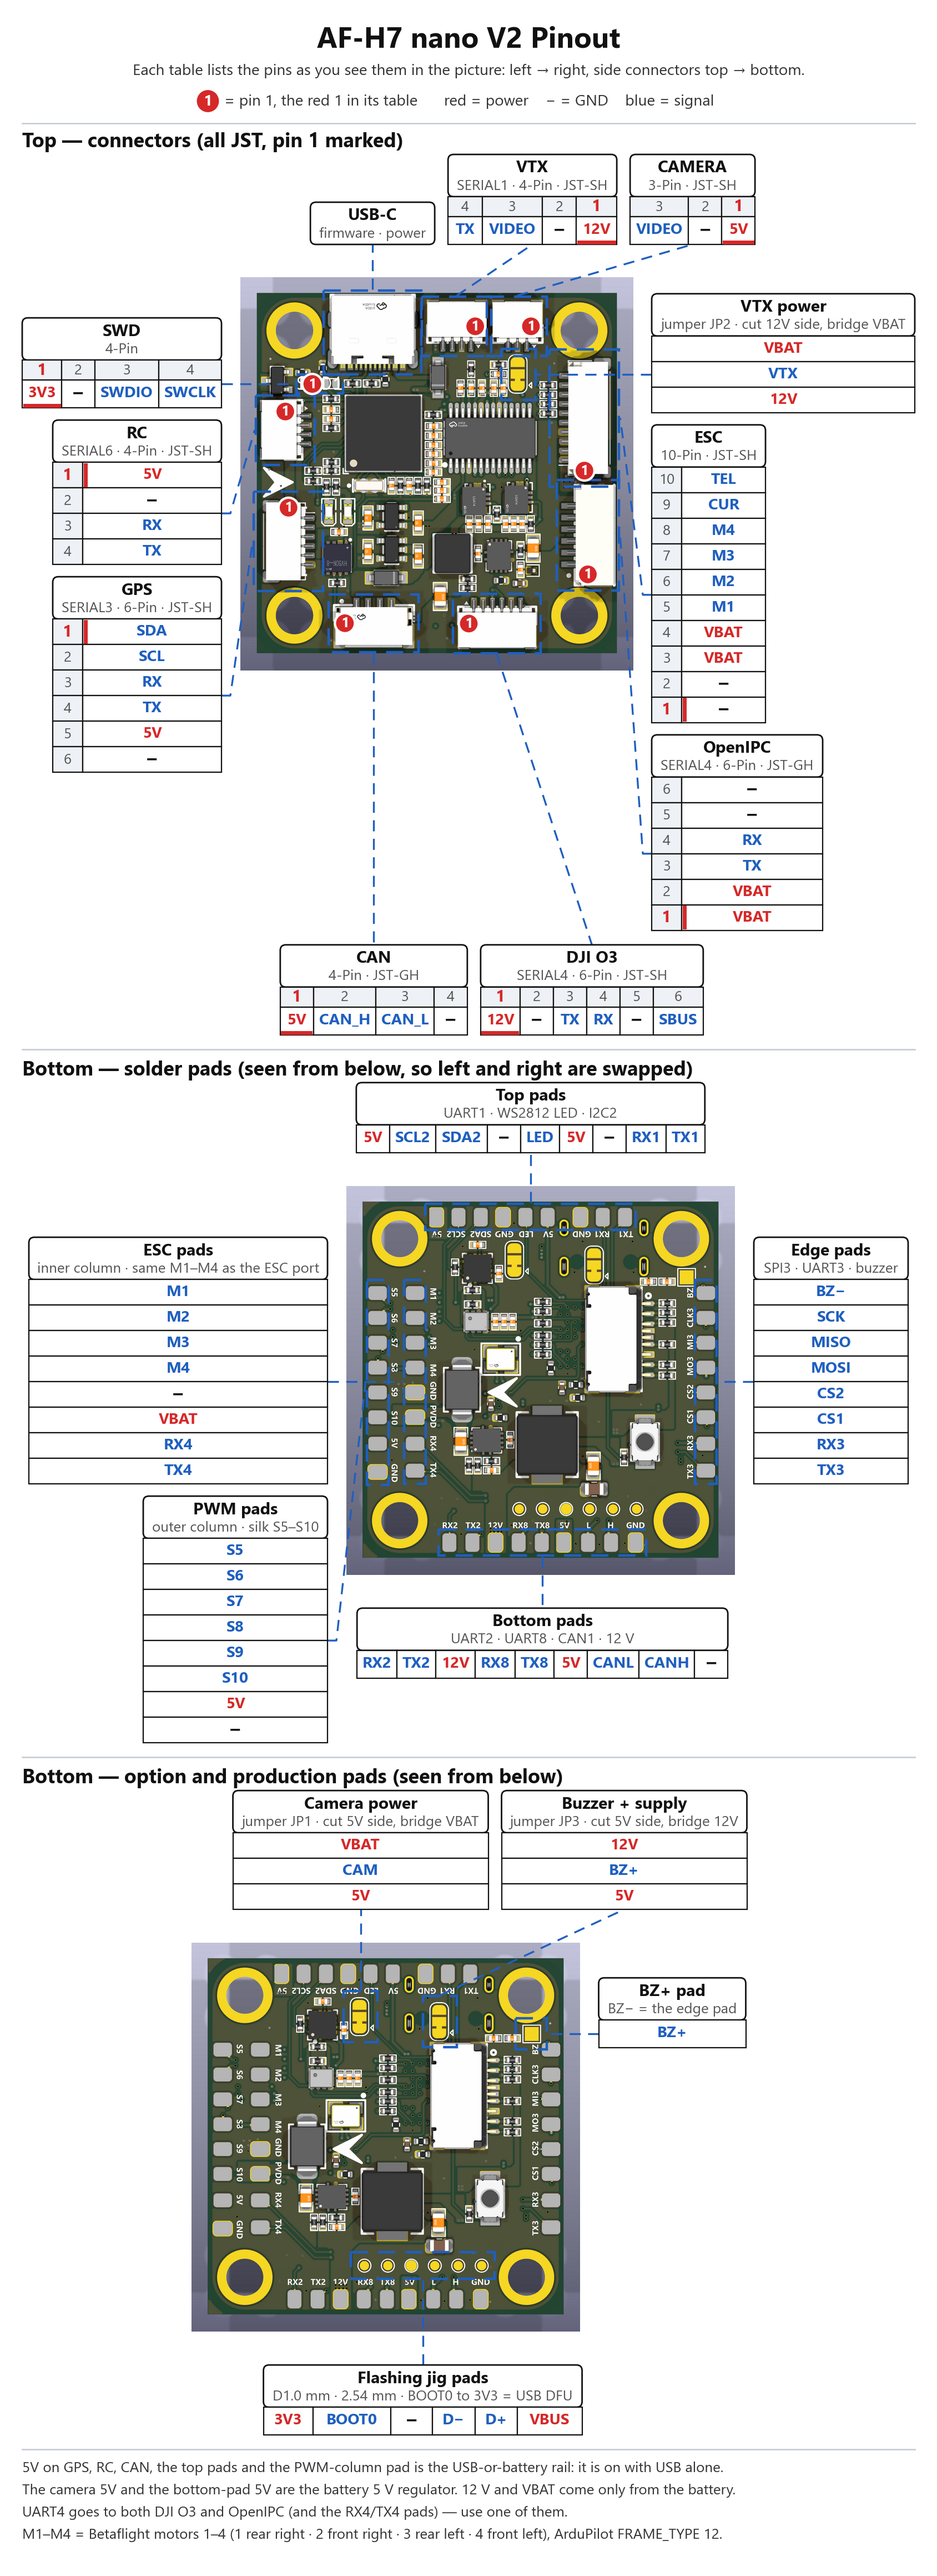
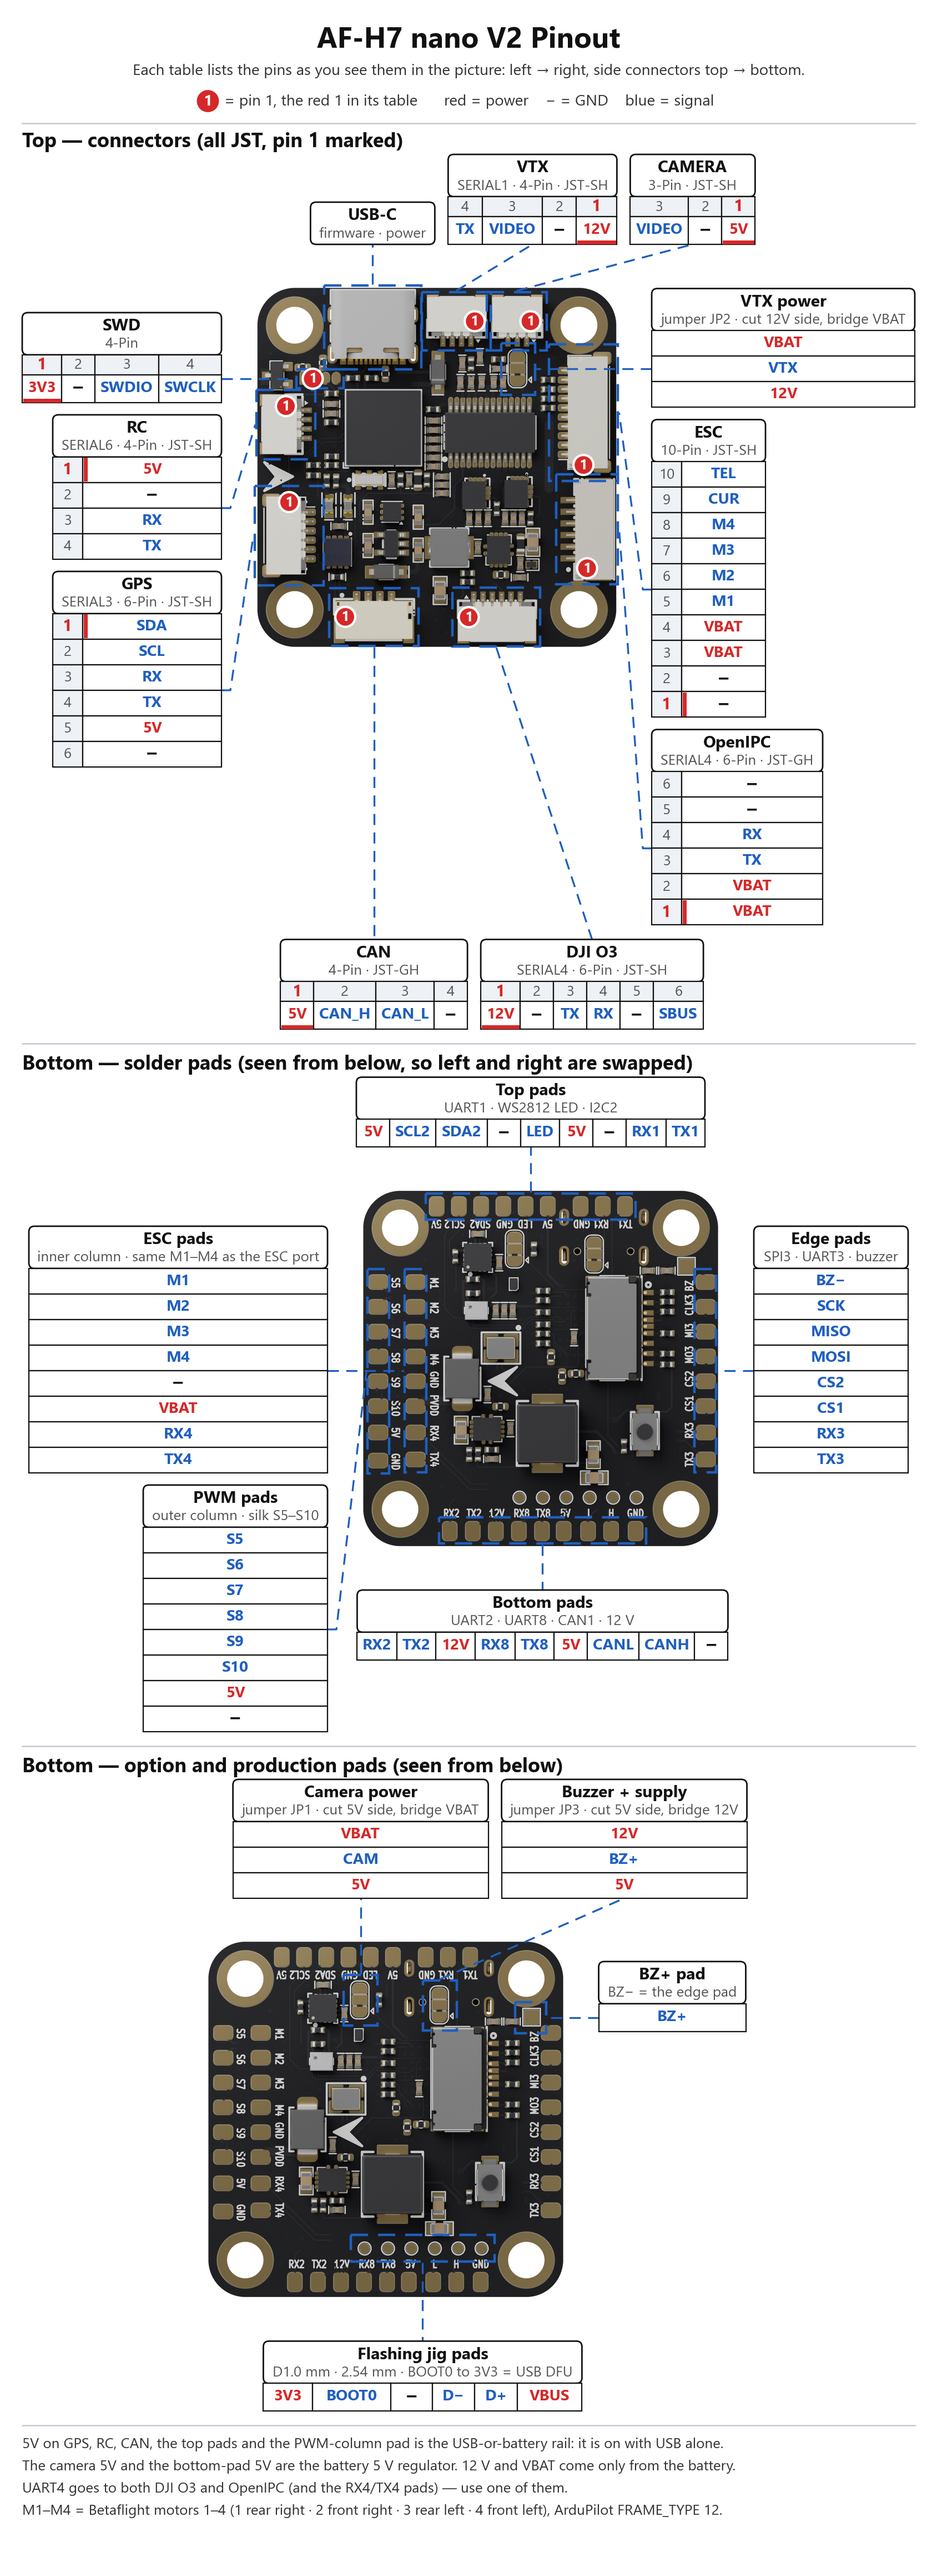
Pinouts: AF-F4 nano, AF-F4 nano v2 and AF-H7 nano V2 drawn on the new catalog renders
Problem: the pinout pictures still used the vendor photos (AF-F4 nano, AF-F4 nano v2 FC board) and the earlier
green KiCad render (AF-H7 nano V2), so they no longer matched the product pictures published today.

Solution: the same tables and pin-1 marks on the new straight-on renders (fc_AF-F4-nano_top/_bottom,
fc_AF-F4-nano-v2_top, fc_AF-H7-nano-V2_top/_bottom).
- AF-F4 nano / v2: each hand-checked box moved from the old photo by the black board edges in both pictures
  (scale + offset); the AF-F4 nano bottom render is turned 180 degrees so it faces the way the old photo did and the
  "as you see them" order of every table stays the same (checked against the render's silk).
- AF-H7 nano V2: board mm -> px from the new render's board edges (234..1365 px = 38.55 mm), cropped to the board.
- Pin signals and order are unchanged (pinTable / script tables). The AF-F4 nano v2 BEC board keeps the maker's
  photo: there is no 3D of that board.

Checks: npm test 24/24, npm run build, npm run validate:remote (0 errors); every box and pin-1 mark checked on the image.

diff --git a/tools/pinout/f4_nano_pinout.py b/tools/pinout/f4_nano_pinout.py
@@ -9,9 +9,10 @@
     옛 그림은 SBUS 좌우 · VTX 위아래를 실크 글자 읽는 방향대로 적어 사진과 반대였다(2026-09-30 실크 대조, 반증 워커 합의).
   윗면 VTX · CAM · RC · BUZZER · GPS = 핀마다 실크가 없어 옛 핀아웃 그림의 순서 그대로(옛 그림 표와 칸마다 같음 — 워커 6 회차).
   1 번 핀 자료가 없어 번호 · ① 를 쓰지 않는다.
-바탕: 윗면 = 카탈로그 제품 사진 public/images/products/fc_F405_nano.png,
-      아랫면 = src/f4_nano_bottom_vendor.png(git 의 옛 fc_F405_nano_pinout.png 에서 아랫면 사진만 (905, 2618)~(2100, 3810) 잘라 둔 것 —
-      출력 파일을 다시 읽지 않는다). 옛 그림의 화살표 두 줄(TF 카드 · BEC)은 여기서 지운다.
+바탕(2026-10-27 이사님 #o2ac037c4 "이 사진들도 같이 렌더링해서 일관성 맞추라고"): 카탈로그 렌더
+      public/images/products/fc_AF-F4-nano_top.png · fc_AF-F4-nano_bottom.png(아랫면은 180° 돌림 — 옛 제조사 사진과 같은 방향이라야
+      표의 '보이는 순서'가 그대로 맞다). 상자 = 옛 사진(fc_F405_nano.png · src/f4_nano_bottom_vendor.png)의 검증된 상자를 검은 판
+      테두리 맞춤으로 옮긴 것(미리보기/catalog-render/pinout_rebase.py) — 렌더 실크(4 3 2 1 + + − − · G 5V TX RX · 패드 글자)와 대조함.
 사용자 2026-09-30 "제품으로 해서 한페이지로 하고 원래 레이아웃에 포트설명 글자만 키우면되지" → 한 장, 원래 배치.
 실행: python f4_nano_pinout.py [출력 폴더]   → fc_F405_nano_pinout.png
 """
@@ -33,13 +34,8 @@ LEGEND = ["red = power    black = GND    blue = signal    grey = not connected"]
 
 
 def bottom():
-    """아랫면 사진 — 옛 그림의 화살표(TF 카드 · BEC 설명선)를 주변 색으로 메운다. 좌표 = 이 그림 px."""
-    a = load_rgb(os.path.join(HERE, "src", "f4_nano_bottom_vendor.png"))
-    mask = np.zeros(a.shape[:2], np.uint8)
-    for p0, p1 in (((-60, 540), (253, 595)), ((-60, 1029), (787, 945))):     # (보드 밖 글자 쪽 → 화살촉)
-        cv2.line(mask, p0, p1, 255, 16)
-        cv2.circle(mask, p1, 24, 255, -1)
-    return cv2.inpaint(a[:, :, ::-1].copy(), mask, 6, cv2.INPAINT_TELEA)[:, :, ::-1]
+    """아랫면 렌더를 180° 돌린 것 — 옛 제조사 사진과 같은 방향(SBUS 왼쪽 위 · 모터 패드 아래)."""
+    return np.ascontiguousarray(np.rot90(load_rgb(os.path.join(IMG, "fc_AF-F4-nano_bottom.png")), 2))
 
 
 def rows(*lines):
@@ -54,32 +50,33 @@ def v(words):
     return ("v", word_cells(words.split()))
 
 
-TOP = [   # (이름, 상자 px (x0, x1, y0, y1), 부제, 표, 자리 T · B · L · R, 줄) — 윗면 사진 fc_F405_nano.png(1024 × 1024)
-    ("ESC", (405, 575, 220, 290), "8-Pin · silk 4 3 2 1 + + − − (+ = VBAT)", h("S4 S3 S2 S1 + + − −"), "T", 1),
-    ("ELRS", (590, 690, 218, 290), "4-Pin · UART4 · silk G 5V TX RX", h("GND 5V TX4 RX4"), "T", 1),
-    ("VTX", (740, 815, 315, 455), "6-Pin · UART3 TX" + MAKER, v("NC GND NC NC VTX TX3"), "R", 1),
-    ("CAM", (740, 810, 468, 548), "3-Pin · video in" + MAKER, v("5V GND CAM"), "R", 1),
-    ("RC", (340, 428, 735, 815), "3-Pin · PPM" + MAKER, h("GND 5V PPM"), "B", 1),
-    ("BUZZER", (440, 552, 735, 815), "4-Pin · UART3 RX" + MAKER, h("5V RX3 BUZZ GND"), "B", 2),
-    ("GPS", (570, 707, 735, 815), "6-Pin · UART1 + I2C1" + MAKER, h("SDA1 SCL1 RX1 TX1 5V GND"), "B", 1),
+REG = (180, 1420, 0, 1200)   # 렌더 1600 × 1200 — 판 235…1364 · 35…1165 px
+TOP = [   # (이름, 상자 px (x0, x1, y0, y1), 부제, 표, 자리 T · B · L · R, 줄) — 윗면 렌더 fc_AF-F4-nano_top.png
+    ("ESC", (591, 922, 29, 163), "8-Pin · silk 4 3 2 1 + + − − (+ = VBAT)", h("S4 S3 S2 S1 + + − −"), "T", 1),
+    ("ELRS", (951, 1146, 25, 163), "4-Pin · UART4 · silk G 5V TX RX", h("GND 5V TX4 RX4"), "T", 1),
+    ("VTX", (1243, 1389, 210, 477), "6-Pin · UART3 TX" + MAKER, v("NC GND NC NC VTX TX3"), "R", 1),
+    ("CAM", (1243, 1380, 502, 654), "3-Pin · video in" + MAKER, v("5V GND CAM"), "R", 1),
+    ("RC", (465, 636, 1011, 1163), "3-Pin · PPM" + MAKER, h("GND 5V PPM"), "B", 1),
+    ("BUZZER", (659, 877, 1011, 1163), "4-Pin · UART3 RX" + MAKER, h("5V RX3 BUZZ GND"), "B", 2),
+    ("GPS", (912, 1179, 1011, 1163), "6-Pin · UART1 + I2C1" + MAKER, h("SDA1 SCL1 RX1 TX1 5V GND"), "B", 1),
 ]
-BOTTOM = [  # 아랫면 사진 src/f4_nano_bottom_vendor.png(1195 × 1192)
-    ("SBUS pads", (200, 350, 10, 162), "UART2 RX · RC input", rows("GND 5V SBUS", "GND 3.3V RX2"), "T", 1),
-    ("RGB pads", (420, 565, 10, 162), "UART3 / UART5 · LED or serial", rows("RGB GND 5V", "RX3 TX5 RX5"), "T", 2),
-    ("I2C / UART pads", (695, 935, 18, 88), "I2C1 / UART1", h("5V SDA1 SCL1 RX1 TX1 GND"), "T", 1),
-    ("VTX pads", (1105, 1175, 767, 912), "UART3 TX · VTX control", v("TX3 VTX GND"), "R", 1),
-    ("MOTOR / POWER pads", (385, 830, 1100, 1180), "Motor signals S1–S8 + battery", h("BAT S4 S3 S2 S1 S5 S6 S7 S8 GND"), "B", 1),
+BOTTOM = [  # 아랫면 렌더 fc_AF-F4-nano_bottom.png 를 180° 돌린 것
+    ("SBUS pads", (419, 564, 42, 187), "UART2 RX · RC input", rows("GND 5V SBUS", "GND 3.3V RX2"), "T", 1),
+    ("RGB pads", (632, 773, 42, 187), "UART3 / UART5 · LED or serial", rows("RGB GND 5V", "RX3 TX5 RX5"), "T", 2),
+    ("I2C / UART pads", (899, 1131, 49, 116), "I2C1 / UART1", h("5V SDA1 SCL1 RX1 TX1 GND"), "T", 1),
+    ("VTX pads", (1296, 1364, 767, 906), "UART3 TX · VTX control", v("TX3 VTX GND"), "R", 1),
+    ("MOTOR / POWER pads", (598, 1030, 1086, 1163), "Motor signals S1–S8 + battery", h("BAT S4 S3 S2 S1 S5 S6 S7 S8 GND"), "B", 1),
 ]
 
 
 def main():
-    top, bot = load_rgb(os.path.join(IMG, "fc_F405_nano.png")), bottom()
+    top, bot = load_rgb(os.path.join(IMG, "fc_AF-F4-nano_top.png")), bottom()
     sh = Sheet()
     sh.header("AF-F4 nano Pinout", "Both sides seen straight on. Each table lists the pins left → right (side connectors: top → bottom) "
-              "as you see them in the photo. The board silk names the ESC, ELRS and every bottom pad; the other top connectors keep "
+              "as you see them in the picture. The board silk names the ESC, ELRS and every bottom pad; the other top connectors keep "
               "the maker's order. There are no pin numbers.", LEGEND)
-    for title, img, reg, conns, w in (("Top side", top, (190, 850, 190, 850), TOP, 820),
-                                      ("Bottom side (pads)", bot, (0, bot.shape[1], 0, bot.shape[0]), BOTTOM, 900)):
+    for title, img, reg, conns, w in (("Top side", top, REG, TOP, 820),
+                                      ("Bottom side (pads)", bot, REG, BOTTOM, 900)):
         sh.caption(title)
         sh.board(region(img, *reg), [{"box": (b[0] - reg[0], b[1] - reg[0], b[2] - reg[2], b[3] - reg[2]), "name": nm, "sub": sub,
                                       "table": tb, "p1": None, "side": sd, "row": rw} for nm, b, sub, tb, sd, rw in conns], img_w=w)

diff --git a/tools/pinout/f4_nano_v2_pinout.py b/tools/pinout/f4_nano_v2_pinout.py
@@ -8,7 +8,9 @@
     ESC 9핀(P11) 왼→오 = 9…1 번(CUR · S4 · S3 · S2 · S1 · + · + · − · −, 보드 실크 "C 4 3 2 1 + + − −" 와 같음) ·
     GPS 6핀(P3) 위→아래 = 6…1 번(− · + · TX · RX · SCL · SDA) · BEC 8핀(J1) 위→아래 = 8…1 번(− · SCL · SDA · LED · TX · RX · TX · RX)
   BEC 보드 = PCB 가 저장소에 없다 → 제조사 그림 표 그대로(번호 · ① 없음).
-바탕: FC = 카탈로그 제품 사진 public/images/products/fc_F4_nano_v2.png · BEC 보드 = src/f4_nano_v2_bec_vendor.png
+바탕: FC = 카탈로그 윗면 렌더 public/images/products/fc_AF-F4-nano-v2_top.png(2026-10-27 이사님 #o2ac037c4 "이 사진들도 같이 렌더링해서
+      일관성 맞추라고" — 제품 사진과 같은 렌더. 상자 = 옛 사진 fc_F4_nano_v2.png 의 검증된 상자를 검은 판 테두리 맞춤으로 옮긴 것,
+      방향 같음 · 미리보기/catalog-render/pinout_rebase.py) · BEC 보드 = src/f4_nano_v2_bec_vendor.png(3D 없음 — 제조사 사진 그대로)
       (git 의 옛 fc_F4_nano_v2_pinout_bottom.png 에서 보드 사진만 잘라 둔 것 — 제조사 파란 점선은 여기서 지운다. 출력 파일을 다시 읽지 않는다).
 실행: python f4_nano_v2_pinout.py [출력 폴더]   → fc_F4_nano_v2_pinout.png
 """
@@ -44,10 +46,11 @@ def v(words, pins=None):
     return ("v", word_cells(words.split(), pins))
 
 
-FC = [   # (이름, 상자 px (x0, x1, y0, y1) — fc_F4_nano_v2.png 1024 × 974, 부제, 표, 1 번 끝, 자리)
-    ("ESC Interface", (281, 556, 37, 156), "9-Pin · JST-SH · to the 4-in-1 ESC", h("CUR S4 S3 S2 S1 + + − −", list(range(9, 0, -1))), "R", "T"),
-    ("GPS", (860, 975, 220, 425), "6-Pin · JST-SH · USART1 + I2C1", v("− + TX RX SCL SDA", list(range(6, 0, -1))), "B", "R"),
-    ("BEC", (860, 978, 445, 700), "8-Pin · JST-SH · to the BEC board", v("− SCL SDA LED TX RX TX RX", list(range(8, 0, -1))), "B", "R"),
+FC_REG = (180, 1420, 0, 1200)   # fc_AF-F4-nano-v2_top.png 1600 × 1200 — 판 235…1364 · 35…1164 px
+FC = [   # (이름, 상자 px (x0, x1, y0, y1) — fc_AF-F4-nano-v2_top.png, 부제, 표, 1 번 끝, 자리)
+    ("ESC Interface", (489, 836, 16, 168), "9-Pin · JST-SH · to the 4-in-1 ESC", h("CUR S4 S3 S2 S1 + + − −", list(range(9, 0, -1))), "R", "T"),
+    ("GPS", (1220, 1365, 250, 512), "6-Pin · JST-SH · USART1 + I2C1", v("− + TX RX SCL SDA", list(range(6, 0, -1))), "B", "R"),
+    ("BEC", (1220, 1369, 537, 864), "8-Pin · JST-SH · to the BEC board", v("− SCL SDA LED TX RX TX RX", list(range(8, 0, -1))), "B", "R"),
 ]
 # BEC 보드: src 그림 좌표 = 옛 그림(1250 × 1217) 좌표 − 잘라 낸 원점(190, 215)
 OX, OY = 190, 215
@@ -64,15 +67,17 @@ BEC = [
 
 
 def main():
-    fc = load_rgb(os.path.join(IMG, "fc_F4_nano_v2.png"))
+    fc = load_rgb(os.path.join(IMG, "fc_AF-F4-nano-v2_top.png"))
     bec = bec_board()
     sh = Sheet()
     sh.header("AF-F4 nano v2 Pinout",
-              "Each table lists the pins left → right (side connectors: top → bottom) as you see them in the photo.",
+              "Each table lists the pins left → right (side connectors: top → bottom) as you see them in the picture.",
               [("1", RED), "= pin 1, the red 1 in its table (FC board)", "+ = power    − = GND    blue = signal"])
     sh.caption("FC board — top")
-    sh.board(region(fc, 0, fc.shape[1], 0, fc.shape[0]),
-             [{"box": b, "name": n, "sub": s, "table": t, "p1": p1, "side": sd} for n, b, s, t, p1, sd in FC], img_w=820)
+    x0, _, y0, _ = FC_REG
+    sh.board(region(fc, *FC_REG),
+             [{"box": (b[0] - x0, b[1] - x0, b[2] - y0, b[3] - y0), "name": n, "sub": s, "table": t, "p1": p1, "side": sd}
+              for n, b, s, t, p1, sd in FC], img_w=820)
     sh.caption("BEC board — connector names as printed by the maker (no pin numbers)")
     sh.board(bec, [{"box": (b[0] - OX, b[1] - OX, b[2] - OY, b[3] - OY), "name": n, "sub": s or None, "table": t, "p1": None,
                     "side": sd, "row": rw} for n, b, s, t, sd, rw in BEC], img_w=780)

diff --git a/tools/pinout/h7_nano_v2_pinout.py b/tools/pinout/h7_nano_v2_pinout.py
@@ -1,4 +1,4 @@
-# -*- coding: utf-8 -*-
+# -*- coding: utf-8 -*-
 """AF-H7 nano V2 핀아웃 한 장 — 윗면 3D 렌더 + 커넥터 표, 아랫면 3D 렌더 + 땜 패드 표 (AF-F4 nano v2 와 같은 배치).
 
 이사님 2026-10-24 #oa01b41c3 "깃에 v2 넣어서 커밍순으로 하고 이런 핀아웃까지 제대로 만들어" (보기 = AF-F4 nano v2 핀아웃).
@@ -6,9 +6,10 @@
   커넥터 = hardware/kicad/AFH7NANO/AFH7NANO_V2.kicad_pcb 의 부품 자리(mm) · 핀 신호 = 이 저장소 src/content/fc/AF-H7-nano-V2.md 의
   pinTable(정본 — 여기서는 읽기만) · 핀 1 끝 = 같은 판의 1 번 패드 자리.
   땜 패드(아랫면, 1.5 × 2.0 mm) = 같은 판의 번호 없는 협력사 패드와 그 넷 · 인쇄 글자는 협력사 실크 그대로(사진에 보임).
-바탕 = public/images/products/fc_AF-H7-nano-V2_{top,bottom}.png (V2 판 KiCad 3D 렌더, 1768 px, 정면 직교).
-  mm → px: 빈 판 렌더(투명)의 판 테두리 = 74…1693 · 70…1689 px ↔ 판 129.226…167.776 · 85.729…124.279 mm (42.02 px/mm).
-  아랫면은 좌우가 거울(x px = 1693 − …).
+바탕 = public/images/products/fc_AF-H7-nano-V2_{top,bottom}.png (카탈로그 렌더 1600 × 1200, 정면 직교 — 2026-10-27 이사님 #o2ac037c4
+  "이 사진들도 같이 렌더링해서 일관성 맞추라고" → 제품 사진과 같은 검은 판 렌더).
+  mm → px: 검은 판 테두리 = 234…1365 · 34…1165 px ↔ 판 129.226…167.776 · 85.729…124.279 mm (29.339 px/mm), 그림은 x 180…1420 만
+  잘라 쓴다(CROP). 아랫면은 좌우가 거울(x px = 1365 − …), 판 자리는 윗면과 같다.
 실행: python h7_nano_v2_pinout.py [출력 폴더]   → fc_AF-H7-nano-V2_pinout.png
 """
 import os
@@ -22,7 +23,8 @@ CAT = os.path.normpath(os.path.join(HERE, "..", ".."))
 IMG = os.path.join(CAT, "public", "images", "products")
 MD = os.path.join(CAT, "src", "content", "fc", "AF-H7-nano-V2.md")
 OUT = sys.argv[1] if len(sys.argv) > 1 else IMG
-S, X0, Y0, PX0, PY0, PX1 = 42.02, 129.226, 85.729, 74, 70, 1693
+CROP = (180, 1420, 0, 1200)
+S, X0, Y0, PX0, PY0, PX1 = 29.339, 129.226, 85.729, 234 - CROP[0], 34, 1365 - CROP[0]
 
 
 def box(x0, y0, x1, y1, bottom=False):
@@ -92,13 +94,13 @@ def main():
                   "side": "T"})
     items.append({"box": box(155.88, 92.08, 158.71, 96.73), "name": "VTX power", "sub": "jumper JP2 · cut 12V side, bridge VBAT",
                   "table": words("VBAT VTX 12V", "v"), "p1": None, "side": "R"})
-    sh.board(region(top, 0, top.shape[1], 0, top.shape[0]), items, img_w=760)
+    sh.board(region(top, *CROP), items, img_w=760)
     sh.caption("Bottom — solder pads (seen from below, so left and right are swapped)")
-    sh.board(region(bot, 0, bot.shape[1], 0, bot.shape[0]),
+    sh.board(region(bot, *CROP),
              [{"box": box(*b, bottom=True), "name": n, "sub": s, "table": t, "p1": None, "side": sd} for n, s, b, t, sd in PADS],
              img_w=700)
     sh.caption("Bottom — option and production pads (seen from below)")
-    sh.board(region(bot, 0, bot.shape[1], 0, bot.shape[0]),
+    sh.board(region(bot, *CROP),
              [{"box": box(*b, bottom=True), "name": n, "sub": s, "table": t, "p1": None, "side": sd} for n, s, b, t, sd in OPT],
              img_w=700)
     sh.note(["5V on GPS, RC, CAN, the top pads and the PWM-column pad is the USB-or-battery rail: it is on with USB alone.",
